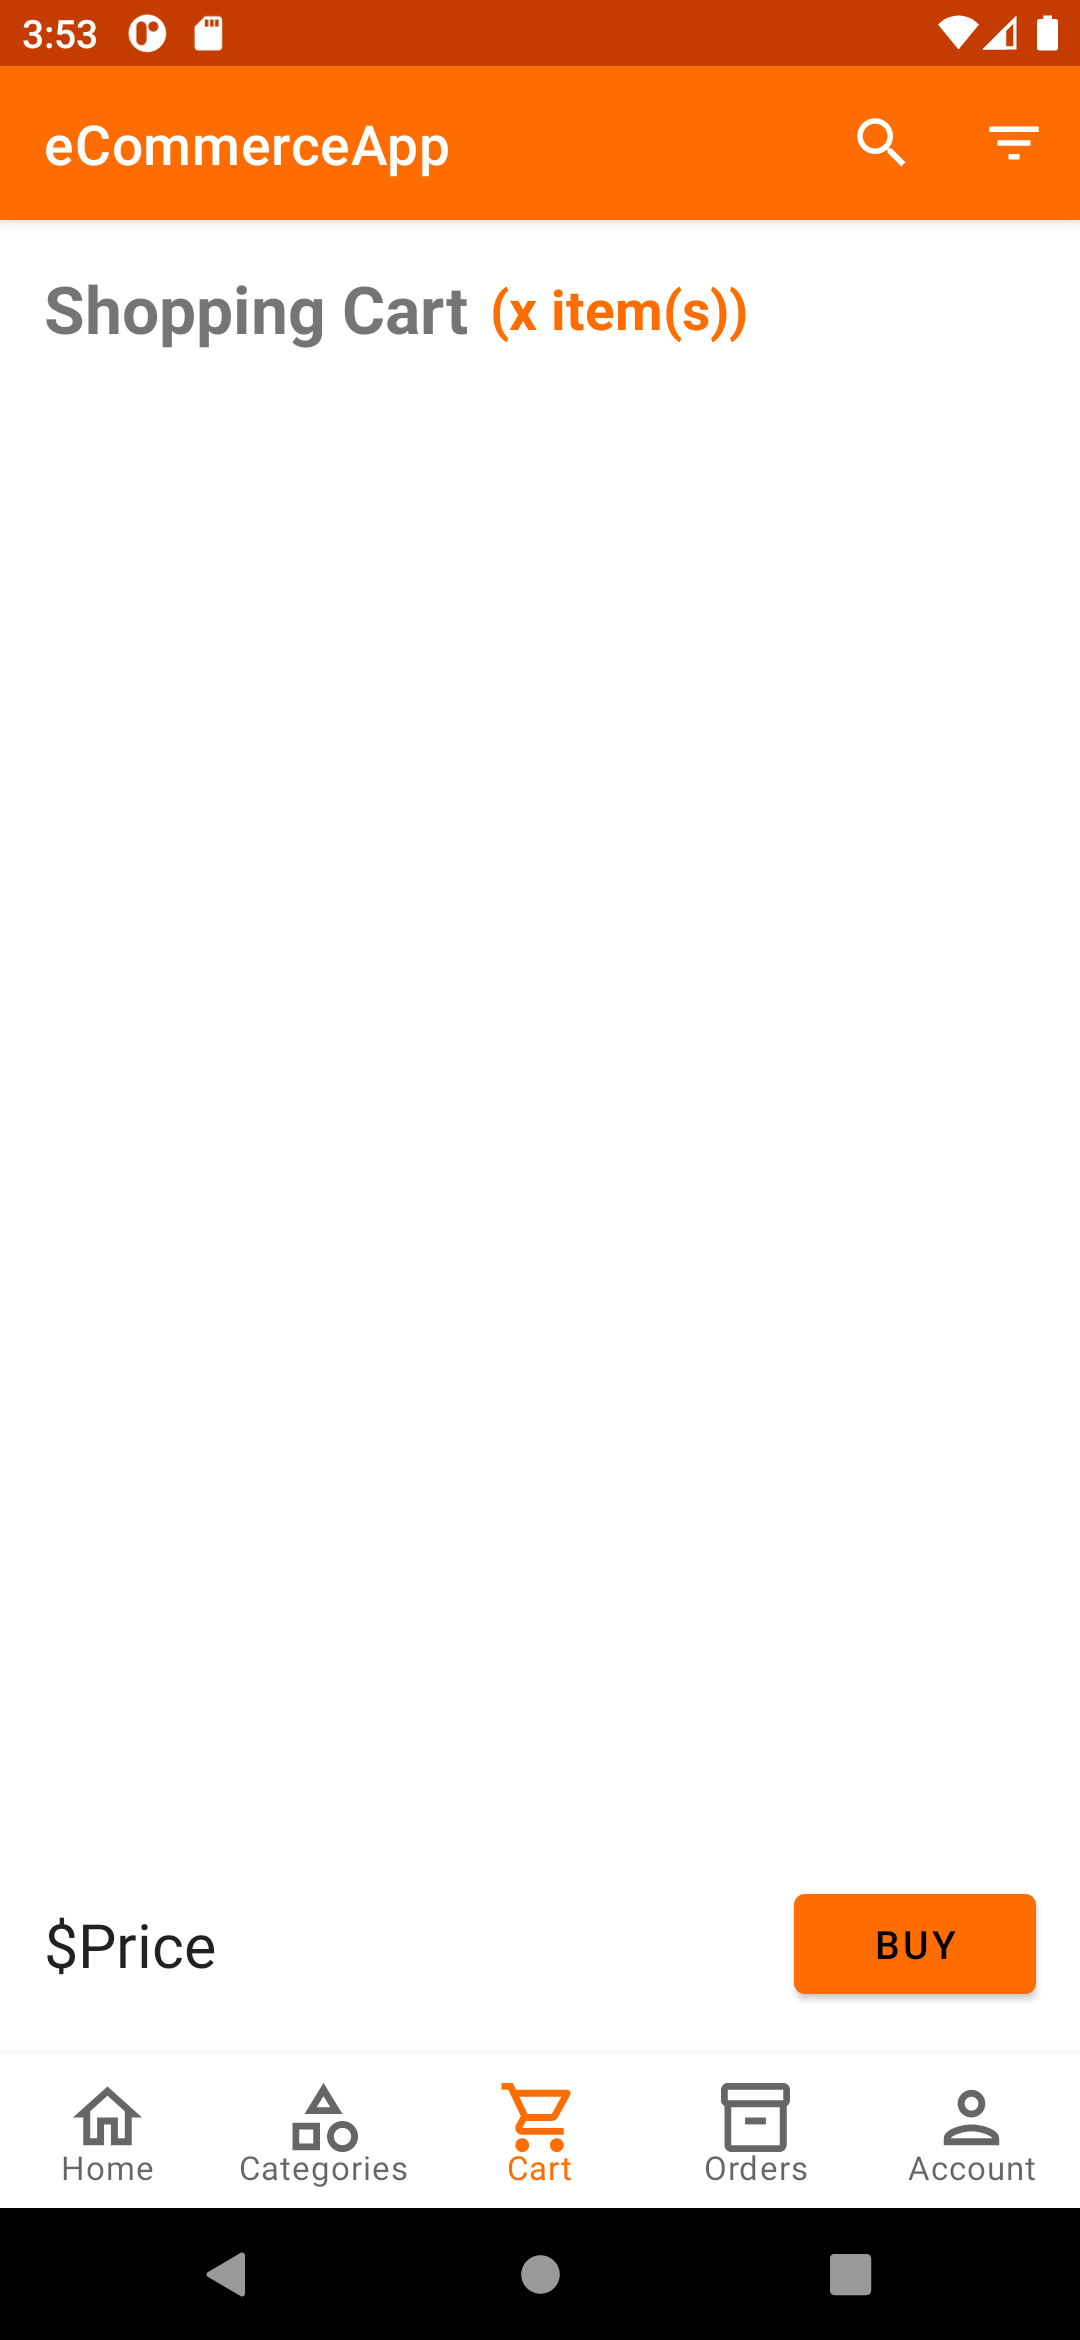
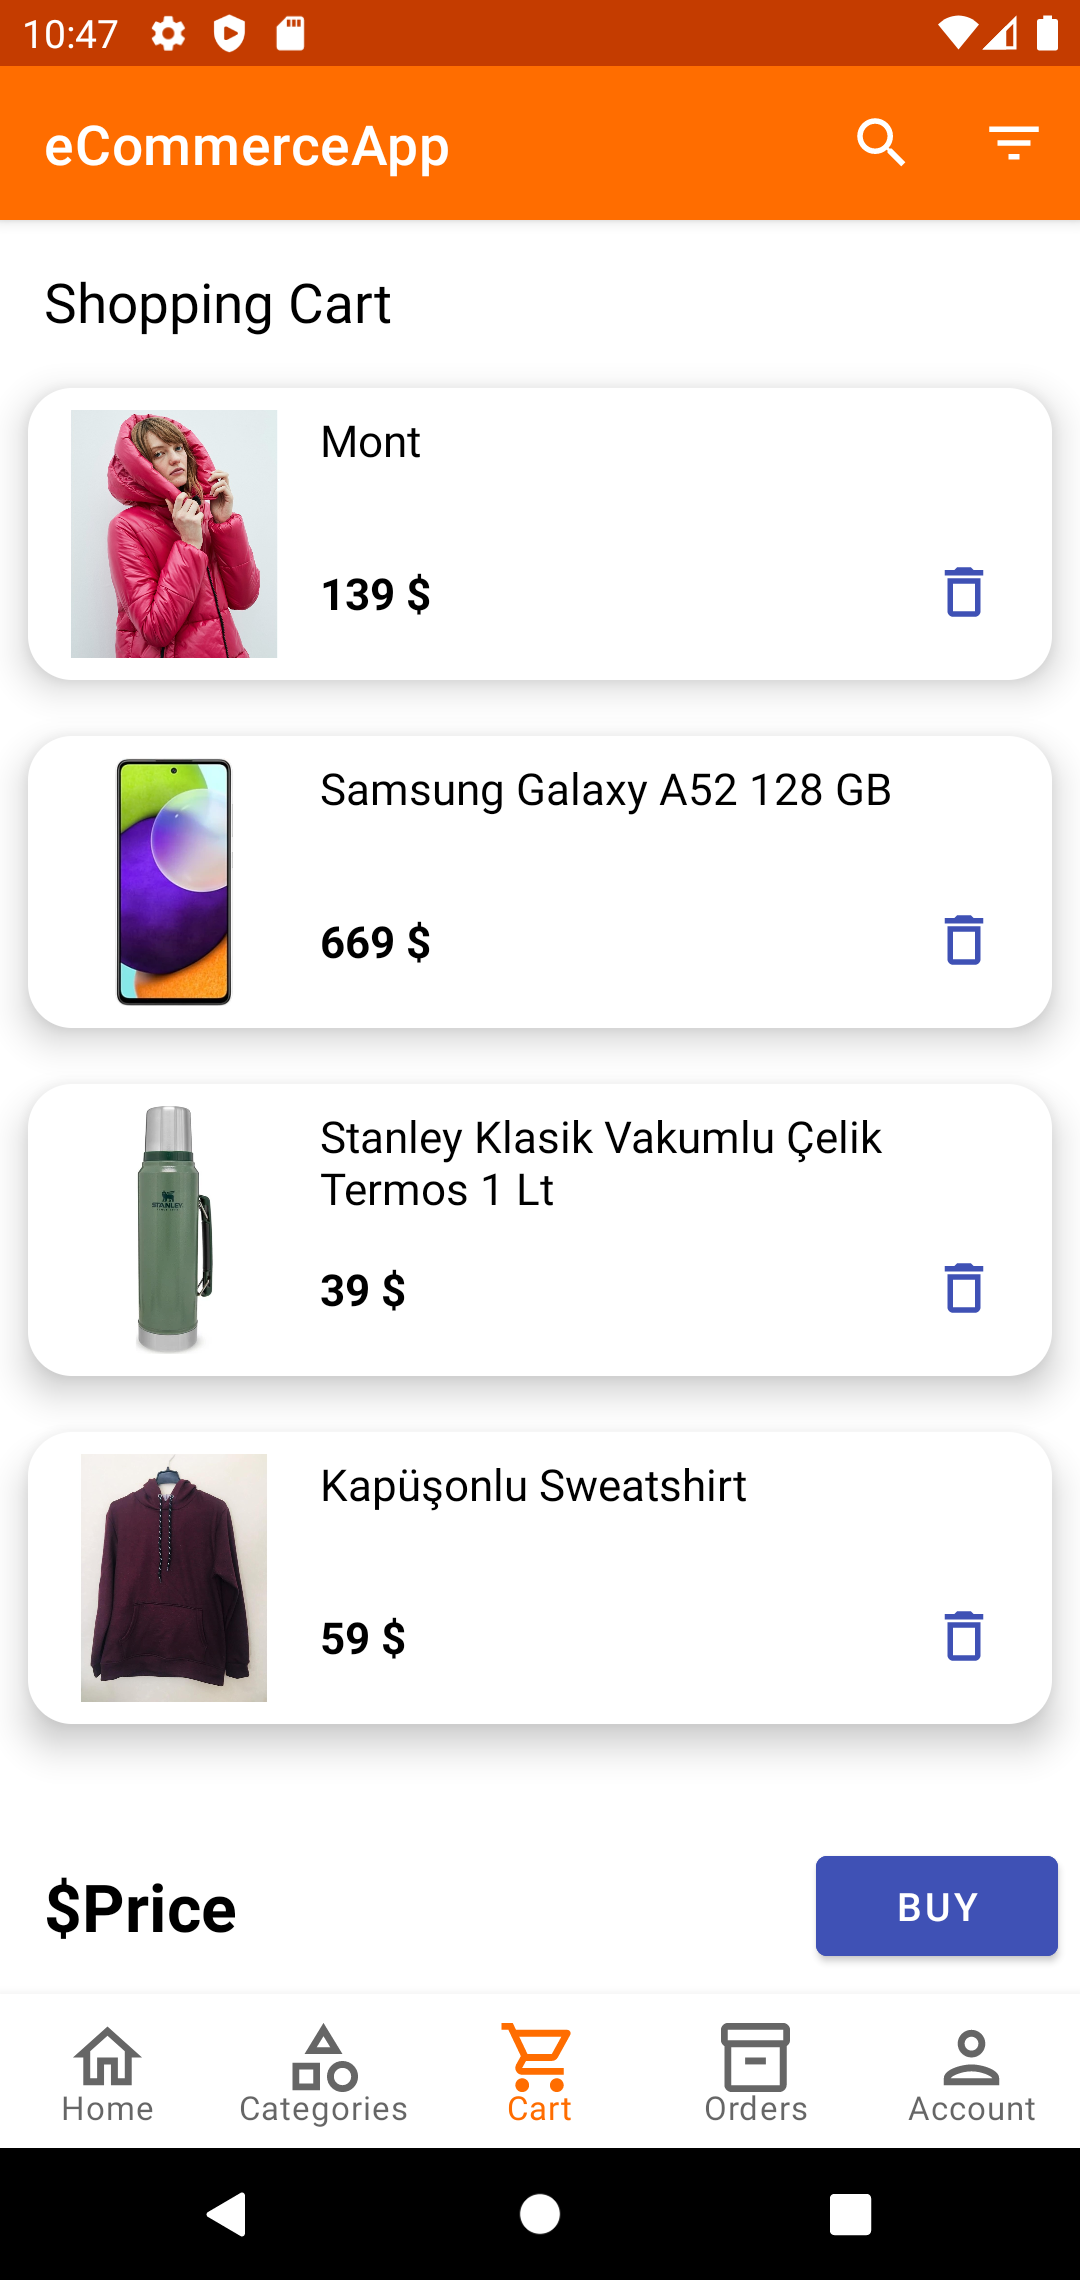
Update README.md

diff --git a/app/src/main/java/com/muhammedesadcomert/ecommerceapp/ui/login/LoginActivity.kt b/app/src/main/java/com/muhammedesadcomert/ecommerceapp/ui/login/LoginActivity.kt
@@ -22,8 +22,6 @@ import com.muhammedesadcomert.ecommerceapp.MainActivity
 import com.muhammedesadcomert.ecommerceapp.R
 import com.muhammedesadcomert.ecommerceapp.StoreActivity
 import com.muhammedesadcomert.ecommerceapp.databinding.ActivityLoginBinding
-import kotlinx.android.synthetic.main.activity_login.*
-
 
 class LoginActivity : AppCompatActivity() {
 
@@ -177,7 +175,7 @@ class LoginActivity : AppCompatActivity() {
                 } else if (it.get("accountType") == "Customer") {
                     startActivity(Intent(applicationContext, MainActivity::class.java))
                 }
-                loading.visibility = View.GONE
+                binding.loading.visibility = View.GONE
                 finish()
             }.addOnFailureListener {
                 Toast.makeText(applicationContext, it.localizedMessage, Toast.LENGTH_LONG).show()

diff --git a/app/src/main/java/com/muhammedesadcomert/ecommerceapp/adapter/CartAdapter.kt b/app/src/main/java/com/muhammedesadcomert/ecommerceapp/adapter/CartAdapter.kt
@@ -35,7 +35,7 @@ class CartAdapter(private val products: ArrayList<Product>) :
 
         holder.binding.apply {
             productTitle.text = product.name
-            productPrice.text = product.price
+            (product.price + " $").also { productPrice.text = it }
             Picasso.get().load(product.imageURL).into(holder.binding.productImage)
         }
 

diff --git a/README.md b/README.md
@@ -4,8 +4,8 @@ An eCommerce app made as a graduation project.
 
 # Screenshots
 
-<img src="images/Home.png" width="20%" height="20%"/> <img src="images/Categories.png" width="20%" height="20%"/> <img src="images/Cart.png" width="20%" height="20%"/> <img src="images/Account.png" width="20%" height="20%"/>
-<img src="images/Addresses.png" width="20%" height="20%"/> <img src="images/Store.png" width="20%" height="20%"/> <img src="images/Upload Product.png" width="20%" height="20%"/> <img src="images/Login Screen.png" width="20%" height="20%"/>
+<img src="images/Home.png" width="25%" height="25%"/> <img src="images/Categories.png" width="25%" height="25%"/> <img src="images/Cart.png" width="25%" height="25%"/> <img src="images/Account.png" width="25%" height="25%"/>
+<img src="images/Addresses.png" width="25%" height="25%"/> <img src="images/Store.png" width="25%" height="25%"/> <img src="images/Upload Product.png" width="25%" height="25%"/> <img src="images/Login Screen.png" width="25%" height="25%"/>
 
 # Getting Started
 
